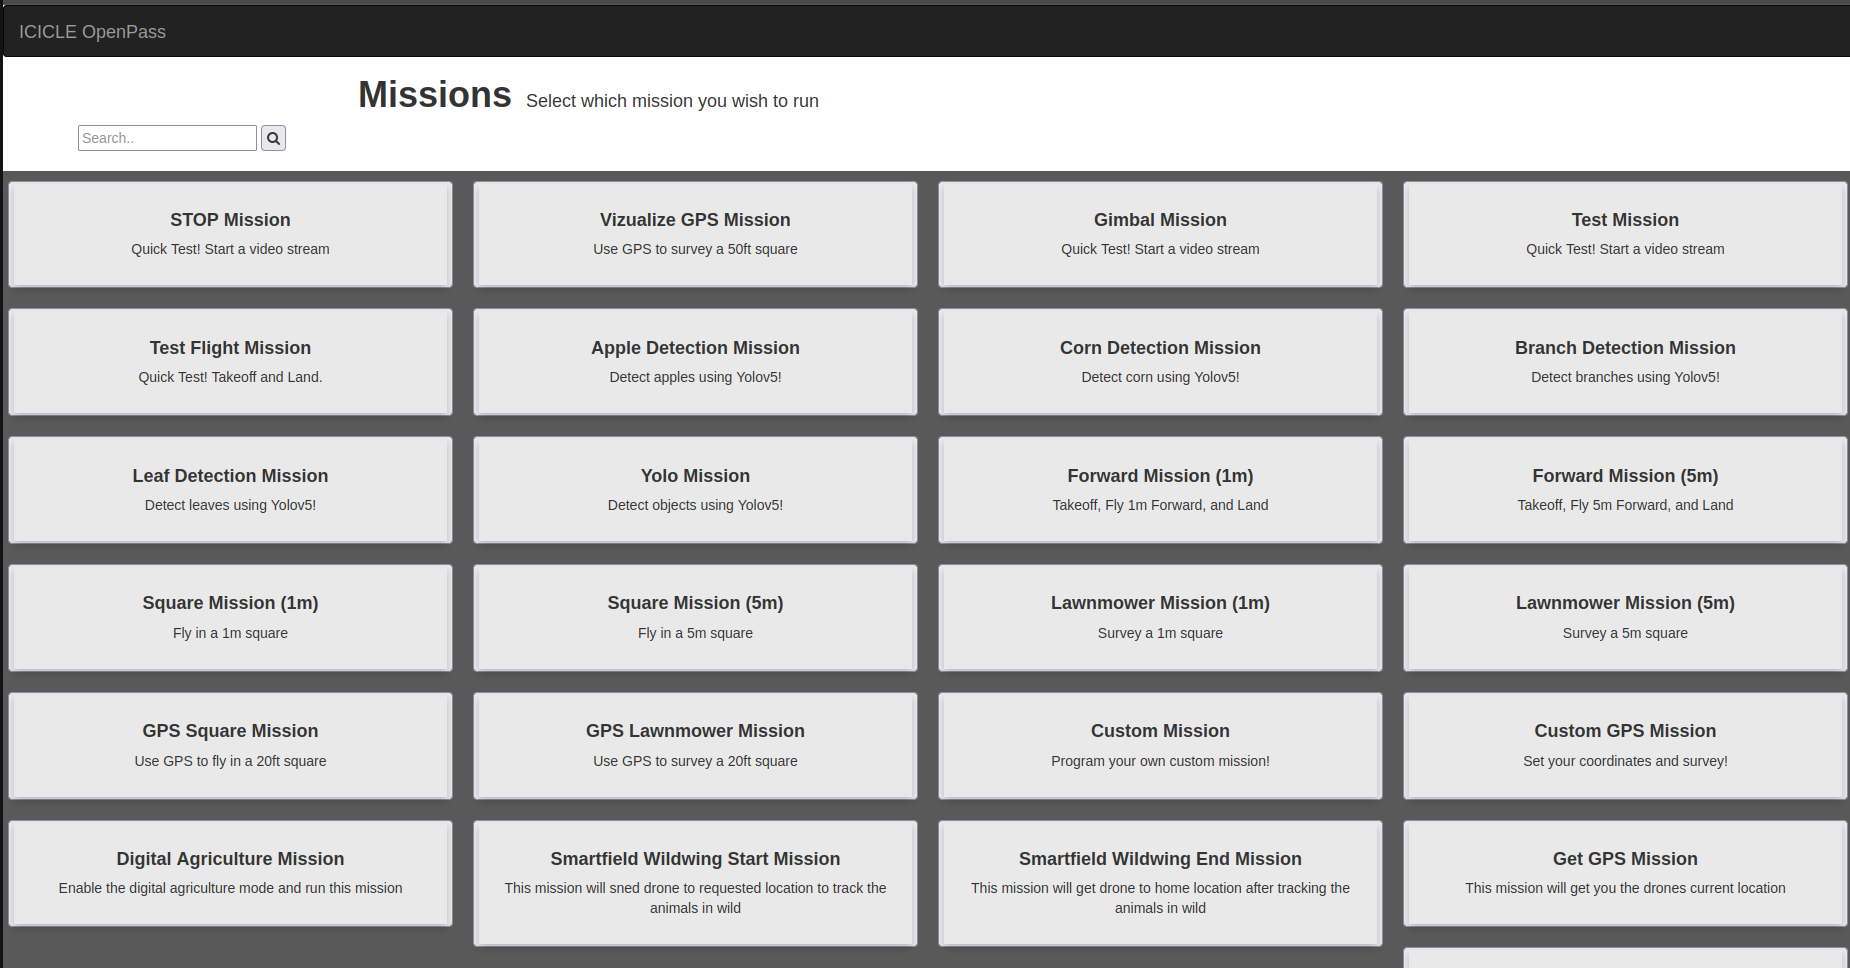
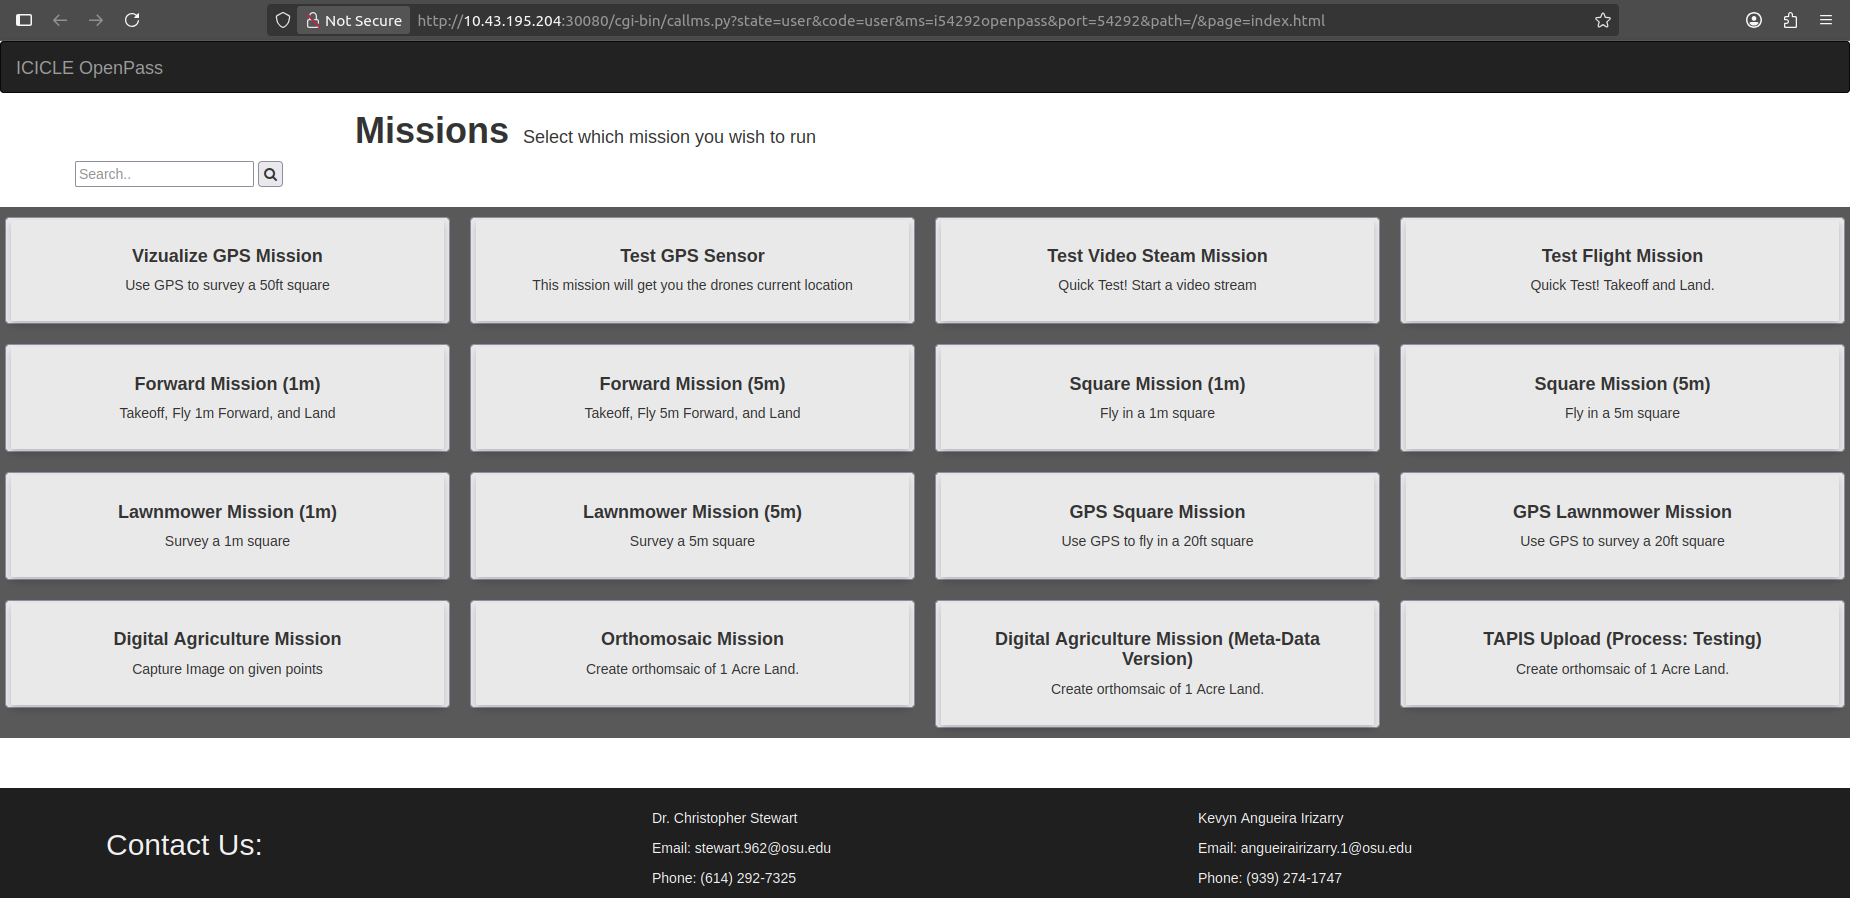
VYP: Edited the Readme.md file and the restartMicroservice file

diff --git a/README.md b/README.md
@@ -82,6 +82,13 @@ bash restartASU.sh
 bash home/icicle/icicleEdge/ea1openpass/startWebsite.sh
 ```
 
+
+After running the startWebsite.sh you can see this dashborad:
+![](/docs/images/dashboard.png)
+
+Note: OpenPass offers several missions that can be used for data collection. These include missions utilizing GPS as well as movement-based (X,Y,Z axis) missions. OpenPass also provides an Orthomosaic Mission, which generates an orthomosaic of one acre of land. Each mission has its own description displayed on its respective button. Once you click on the mission button you can also have a look at the detailed description of the mission.  
+
+We are currently working on and testing missions that support YOLO libraries, enabling real-time object detection during mission execution on OpenPass.
 ## Overview
 
 This installation script automates the deployment of OpenPASS and its required dependencies on edge computing devices, specifically configured for laptop-based implementations. The system establishes a complete microservice environment with containerized applications, networking configuration, and essential development tools.
@@ -141,9 +148,3 @@ Common installation issues typically relate to user permissions, network connect
 This installation framework provides a robust foundation for deploying OpenPASS on edge computing devices, supporting scalable drone operations and agricultural data processing workflows.
 
 ---
-
-# Explanation
-
-### Architecture:
-![](docs/images/architecture.jpg)
-![](/docs/images/dashboard.png)
